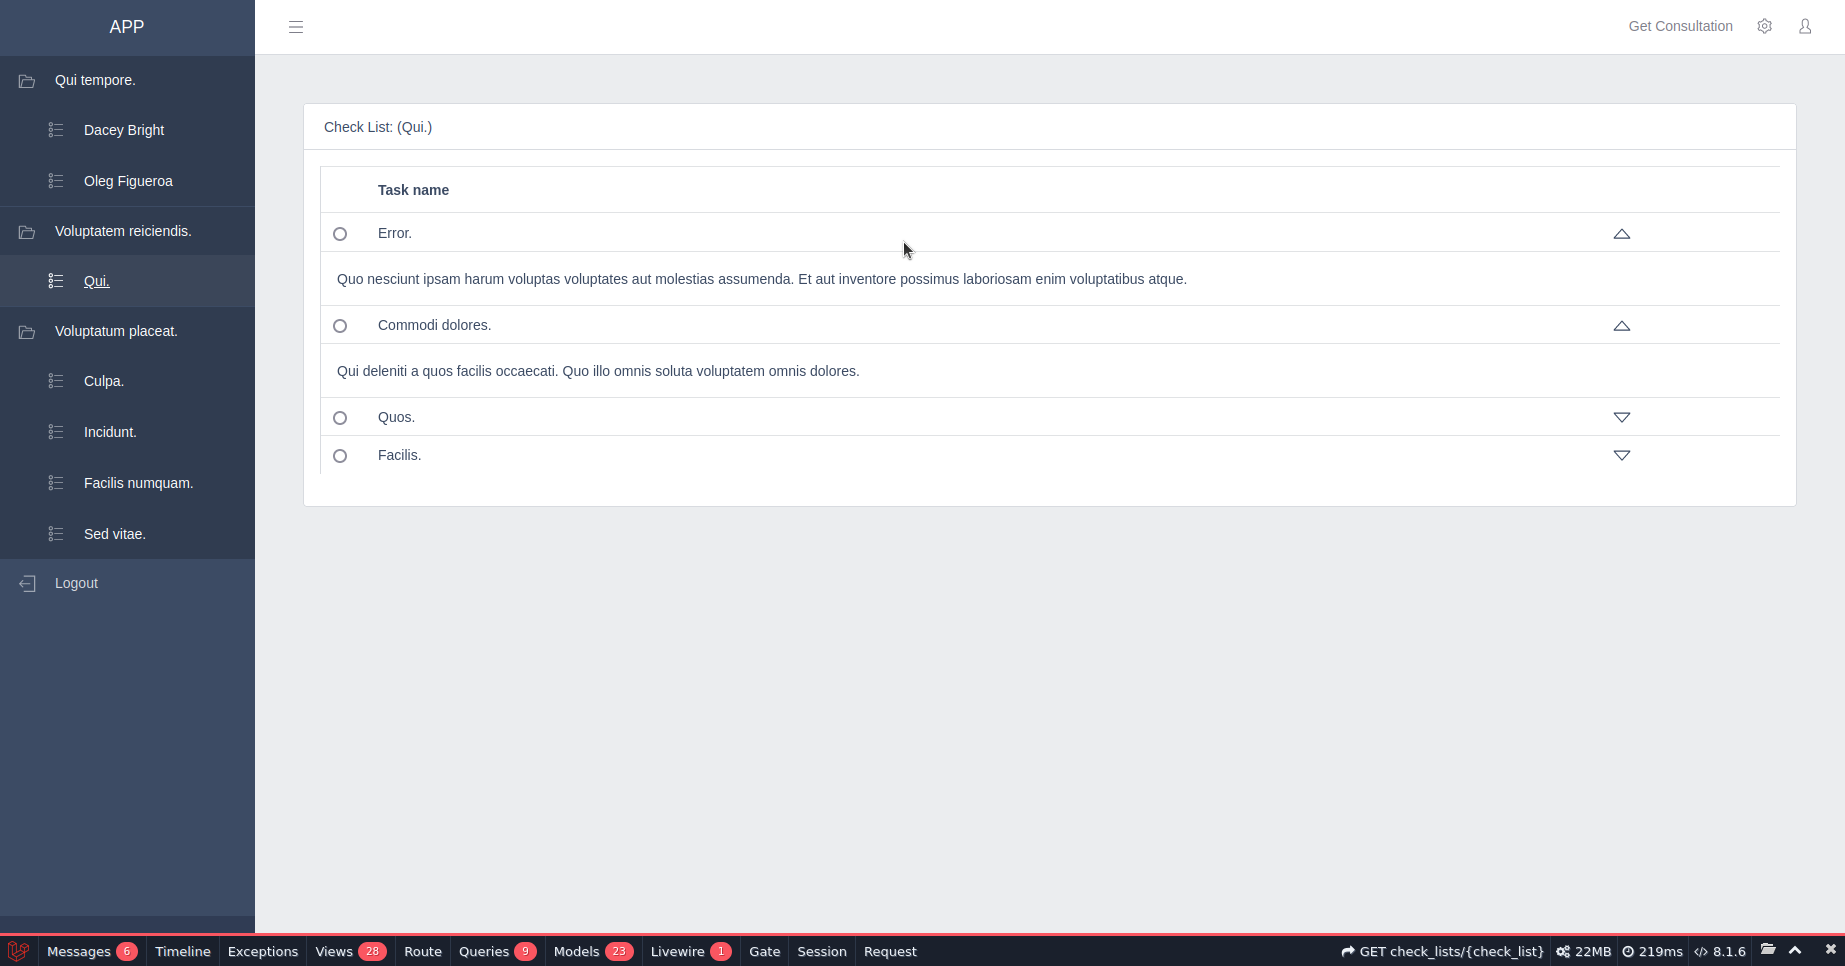
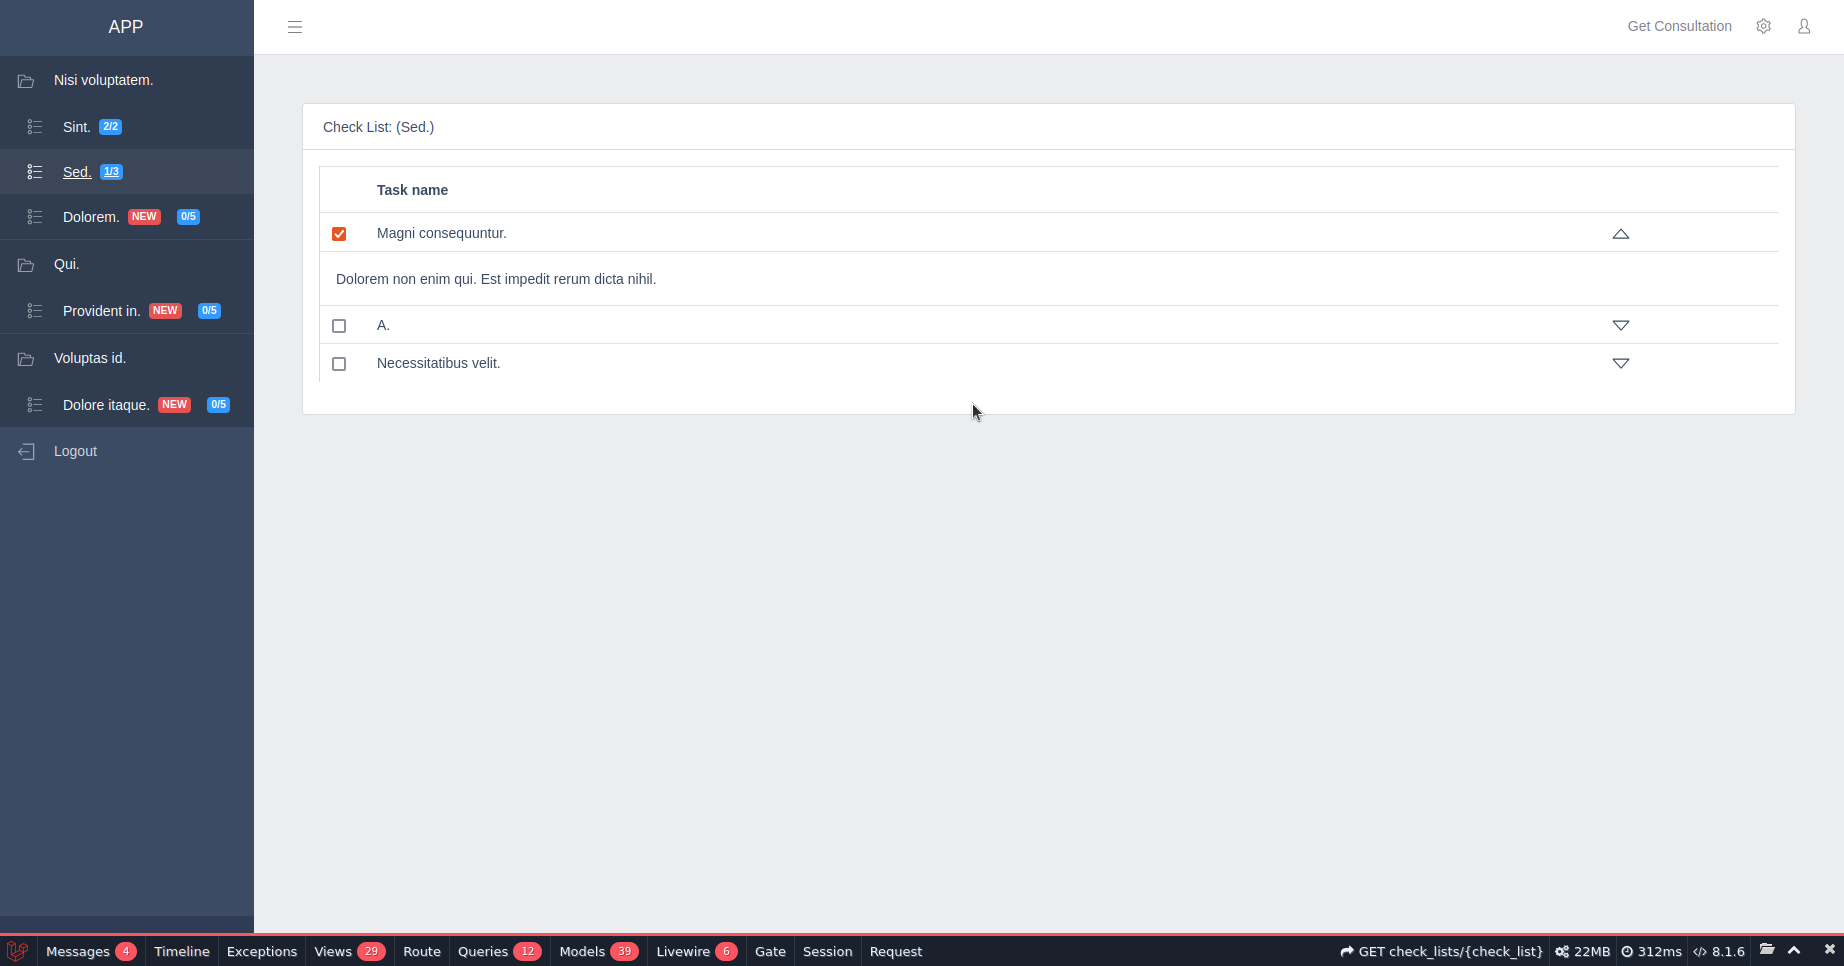
user-tasks-count

diff --git a/resources/views/partials/sidebar.blade.php b/resources/views/partials/sidebar.blade.php
@@ -43,7 +43,7 @@
             @foreach ($group->checklists as $list)
             <li class="c-sidebar-nav-item">
                 <a class="c-sidebar-nav-link" 
-                style="padding: 15px 85px;"
+                style="padding: 12px 65px;"
                 href="{{ route('admin.check_list_groups.check_lists.edit', [$group, $list]) }}">
                     <svg class="c-sidebar-nav-icon">
                         <use xlink:href="{{ asset('vendors/@coreui/icons/svg/free.svg#cil-list') }}"></use>
@@ -64,7 +64,7 @@
                 ])
                 @foreach ($group['checklists'] as $list)
                 <li class="c-sidebar-nav-item">
-                    <a class="c-sidebar-nav-link" style="padding: 15px 85px;" href="{{ route('users.check_lists.show', $list['id']) }}">
+                    <a class="c-sidebar-nav-link" style="padding: 12px 65px;" href="{{ route('users.check_lists.show', $list['id']) }}">
                         <svg class="c-sidebar-nav-icon">
                             <use xlink:href="{{ asset('vendors/@coreui/icons/svg/free.svg#cil-list') }}"></use>
                         </svg>
@@ -81,6 +81,11 @@
                             'show' => $list['is_updated']
                         ]) UPT
                         @endbadge
+                        @livewire('completed-tasks-counter', [
+                            'tasks_count' => count($list['tasks']),
+                            'completed_tasks_count' => count($list['completed_tasks_count']),
+                            'check_list_id' => $list['id'],
+                        ])
                     </a>
                 </li>
                 @endforeach

diff --git a/app/Http/Livewire/CheckListUserShow.php b/app/Http/Livewire/CheckListUserShow.php
@@ -33,7 +33,8 @@ class CheckListUserShow extends Component
             if ($user_task) {
                 if(is_null($user_task->completed_at)) {
                     $user_task->update(['completed_at' => now()]);
-                    dd('find user_Id');
+                    $this->completed_tasks[] = $task_id;
+                    $this->emit('task_complete_event', $task->check_list_id);
                 }
             } else {
                 $user_task = $task->replicate();
@@ -41,6 +42,8 @@ class CheckListUserShow extends Component
                 $user_task['task_id'] = $task_id;
                 $user_task['completed_at'] = now();
                 $user_task->save();
+                $this->completed_tasks[] = $task_id;
+                $this->emit('task_complete_event', $task->check_list_id);
             }
         }
     }

diff --git a/resources/views/livewire/check-list-user-show.blade.php b/resources/views/livewire/check-list-user-show.blade.php
@@ -3,12 +3,10 @@
     <tr class="task-description-toggle" data-id="{{ $task->id }}">
         <td>
             <div class="form-check">
-                <input class="form-check-input" 
-                type="radio" name="check" id="check" 
-                wire:click="complete_task({{ $task->id }})"
-                @if(in_array($task->id, $completed_tasks)) checked @endif
-                />
-            </div>  
+                <input class="form-check-input" type="checkbox" 
+                    wire:click="complete_task({{ $task->id }})" 
+                    @if(in_array($task->id, $completed_tasks)) checked="checked" @endif />
+            </div>
         </td>
         <td class="w-75">{{ $task->name }}</td>
         <td>

diff --git a/app/Http/Livewire/CompletedTasksCounter.php b/app/Http/Livewire/CompletedTasksCounter.php
@@ -1,0 +1,26 @@
+<?php
+
+namespace App\Http\Livewire;
+
+use Livewire\Component;
+
+class CompletedTasksCounter extends Component
+{
+    public $tasks_count;
+    public $completed_tasks_count;
+    public $check_list_id;
+
+    protected $listeners = ['task_complete_event' => 'recalculate_tasks'];
+
+    public function render()
+    {
+        return view('livewire.completed-tasks-counter');
+    }
+
+    public function recalculate_tasks($check_list_id, $i=1)
+    {
+        if ($check_list_id === $this->check_list_id) {
+            $this->completed_tasks_count+=$i;
+        }
+    }
+}

diff --git a/resources/views/components/menu.blade.php b/resources/views/components/menu.blade.php
@@ -25,7 +25,7 @@
         {{ $slot }}
         @if (!isset($is_admin) || $is_admin)
         <li class="c-sidebar-nav-item">
-            <a class="c-sidebar-nav-link" style="padding: 15px 85px;" href="{{ route('admin.check_list_groups.check_lists.create', $group) }}">
+            <a class="c-sidebar-nav-link" style="padding: 12px 65px;" href="{{ route('admin.check_list_groups.check_lists.create', $group) }}">
             <svg class="c-sidebar-nav-icon">
                 <use
                     xlink:href="{{ asset('vendors/@coreui/icons/svg/free.svg#cil-note-add') }}"></use>

diff --git a/app/Http/Livewire/TasksTable.php b/app/Http/Livewire/TasksTable.php
@@ -15,7 +15,7 @@ class TasksTable extends Component
         return view('livewire.tasks-table', compact('tasks'));
     }
 
-    public function task_up($task_id)
+    public function task_up(int $task_id)
     {
         $task = Task::find($task_id);
         if ($task) {
@@ -28,7 +28,7 @@ class TasksTable extends Component
         }
     }
 
-    public function task_down($task_id)
+    public function task_down(int $task_id)
     {
         $task = Task::find($task_id);
         if ($task) {

diff --git a/app/Http/View/Composers/MenuComposer.php b/app/Http/View/Composers/MenuComposer.php
@@ -24,7 +24,11 @@ class MenuComposer
         $menu = CheckListGroup::with([
             'checklists' => function($query) {
                 $query->whereNull('user_id');
-            }
+            },
+            'checklists.tasks' => function($query) {
+                $query->whereNull('user_id');
+            },
+            'checklists.completed_tasks_count'
         ])->get();
         $view->with('admin_menu', $menu);
 

diff --git a/resources/views/components/page.blade.php b/resources/views/components/page.blade.php
@@ -1,5 +1,5 @@
 <li class="c-sidebar-nav-item">
-    <a class="c-sidebar-nav-link" href="{{ route('admin.pages.edit', $page) }}" style="padding: 15px 85px;">
+    <a class="c-sidebar-nav-link" href="{{ route('admin.pages.edit', $page) }}" style="padding: 12px 65px;">
         <svg class="c-sidebar-nav-icon">
             <use xlink:href="{{ asset('vendors/@coreui/icons/svg/free.svg#cil-list') }}"></use>
         </svg>

diff --git a/app/Models/CheckList.php b/app/Models/CheckList.php
@@ -28,6 +28,13 @@ class CheckList extends Model
         return $this->hasMany(Task::class);
     }
 
+    public function completed_tasks_count()
+    {
+        return $this->hasMany(Task::class)
+        ->where('user_id', auth()->id())
+        ->whereNotNull('completed_at');
+    }
+
     public static function boot()
     {
         parent::boot();

diff --git a/resources/views/livewire/completed-tasks-counter.blade.php b/resources/views/livewire/completed-tasks-counter.blade.php
@@ -1,0 +1,1 @@
+<span class="badge bg-info mx-2">{{ $completed_tasks_count }}/{{ $tasks_count }}</span>
